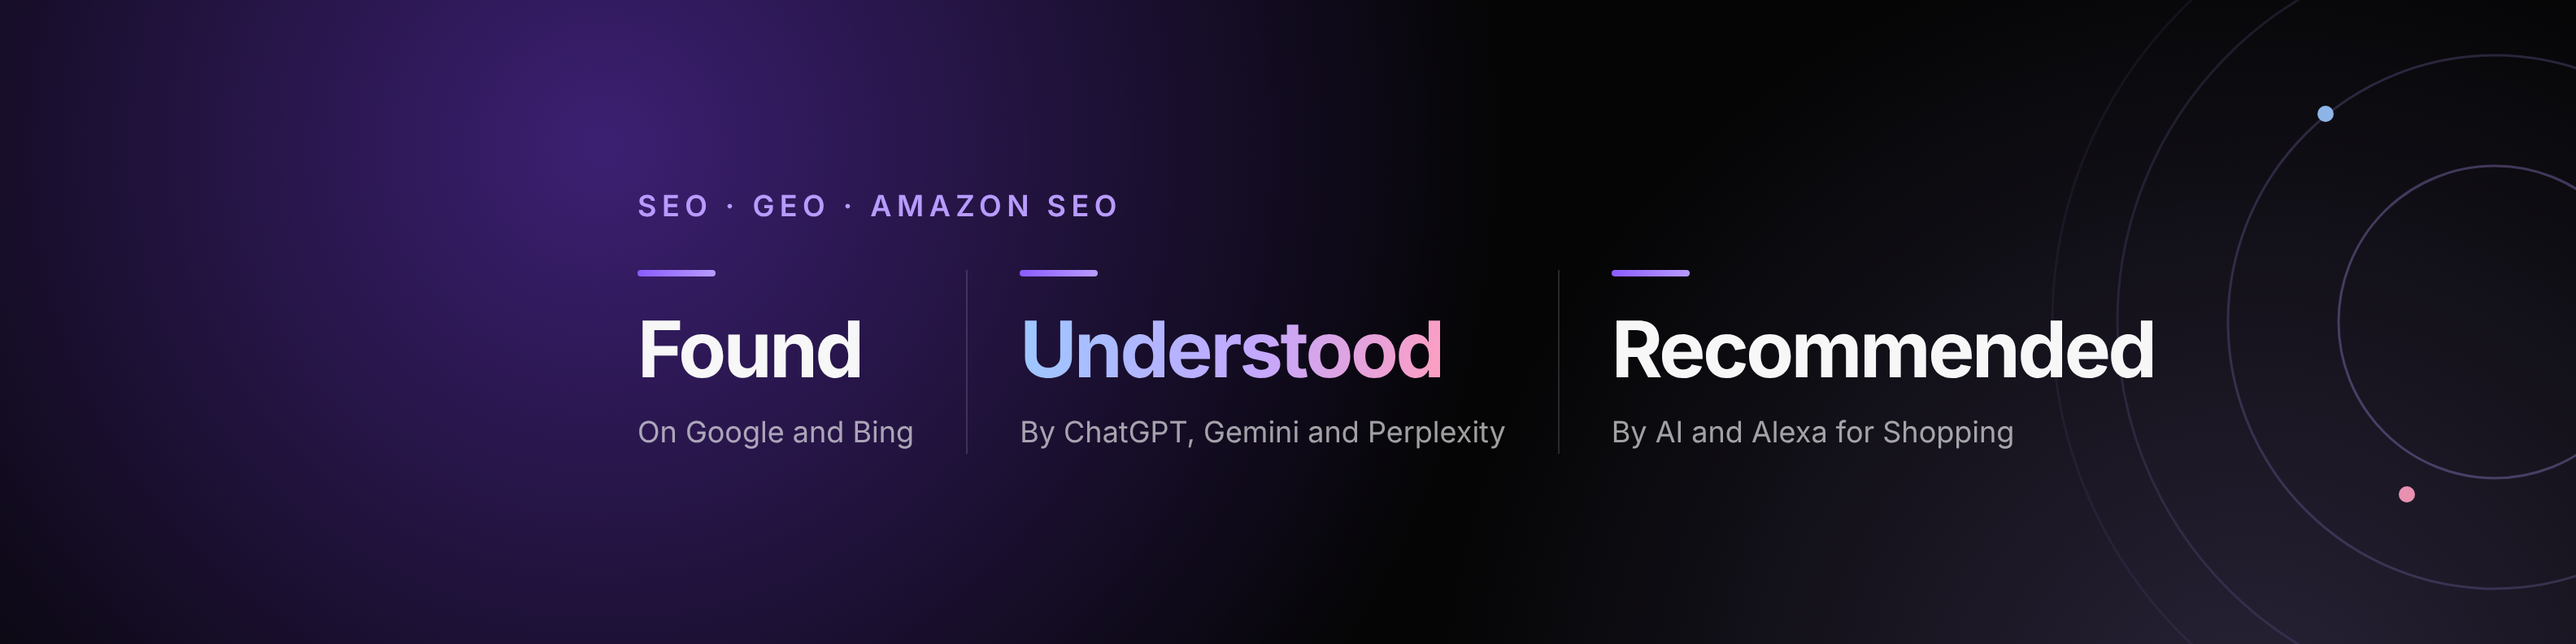
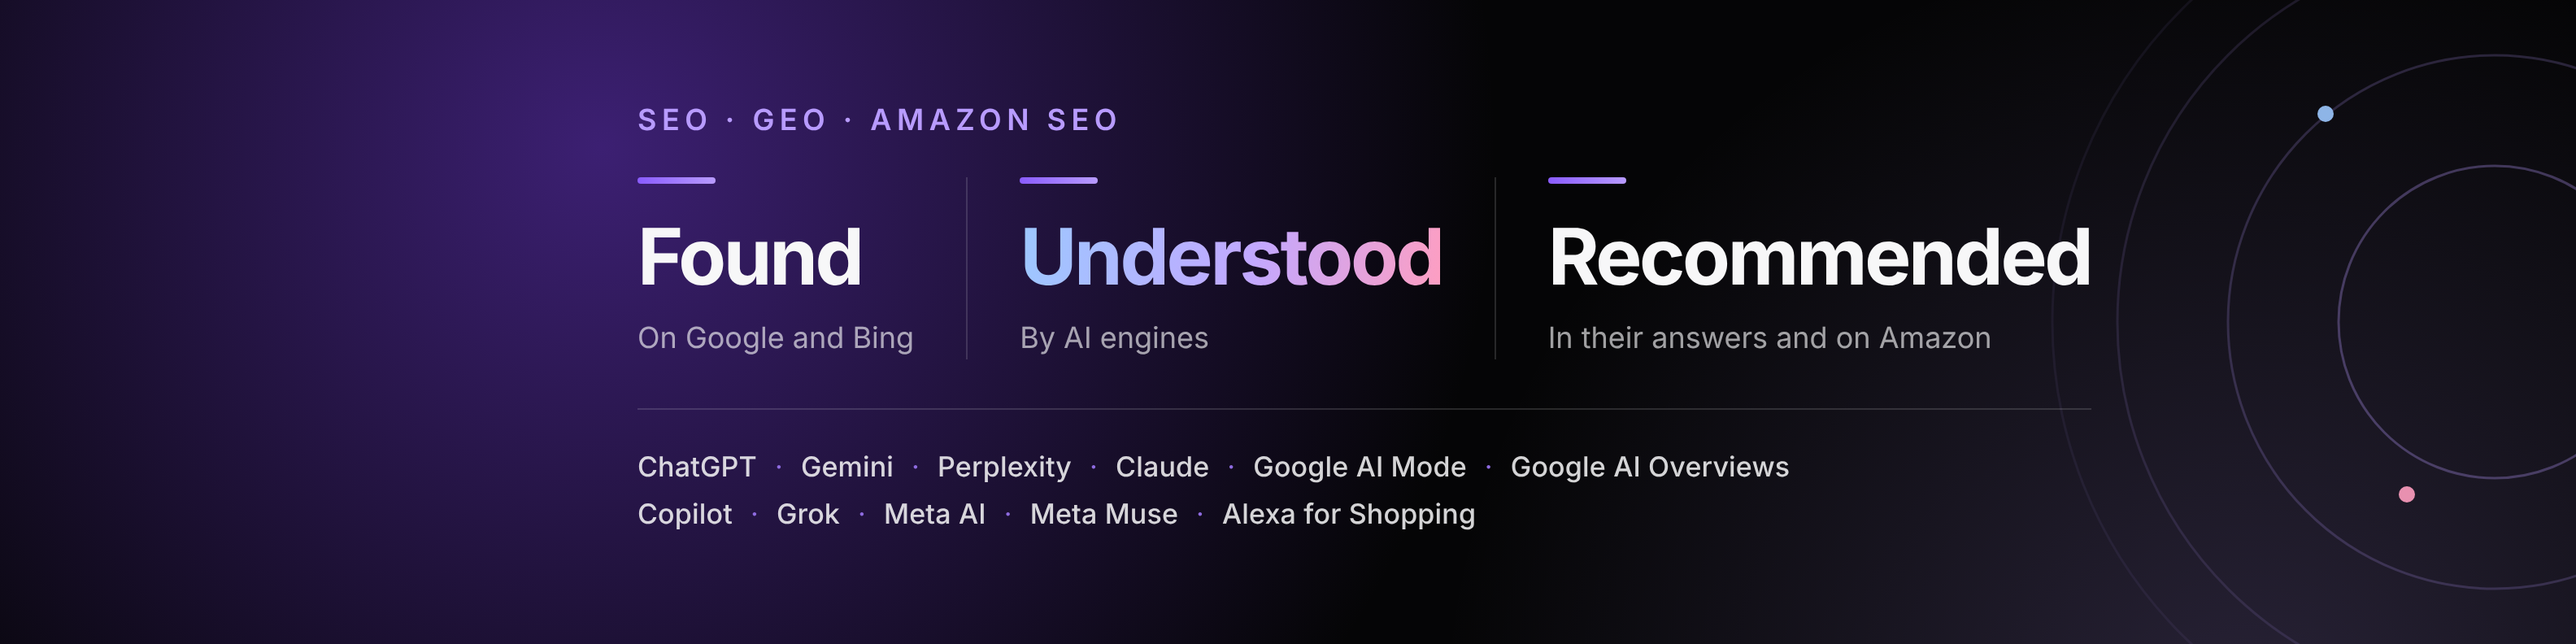
LinkedIn cover v2: full list of engines under the three beats
Claude-Session: https://claude.ai/code/session_011B6n1KvdKxxhX2vFogUzTv

diff --git a/linkedin/PERFIL.md b/linkedin/PERFIL.md
@@ -30,3 +30,4 @@ Versión en inglés: ver `docs/LINKEDIN-PROFILE.md` en el repo GEONOS (PR #292 a
 
 ### Portada, versión 2 (2026-10-27)
 Rehecha con el estilo de diseño premium (fondo negro de la marca, violeta y lila, Inter, ritmo de 8 puntos): tres ideas de tu texto "Acerca de" (encontrado, entendido, recomendado), con SEO, GEO y Amazon SEO arriba. Sin nombre de producto ni logo. Archivos en `linkedin/portada/`: `portada-linkedin-v2-es-1584x396.png` (principal), `portada-linkedin-v2-en-1584x396.png` (por si usas el perfil en inglés), las dos al doble (3168 x 792), `vista-previa-computadora-v2.png` (el círculo gris simula tu foto) y el script `banner2.cjs`. La versión 1 se conserva. Probar en computadora y en celular antes de dejarla.
+Actualización de la portada v2 (2026-10-27): se agregó debajo de las tres ideas la lista completa de motores (ChatGPT, Gemini, Perplexity, Claude, Google AI Mode, Google AI Overviews, Copilot, Grok, Meta AI, Meta Muse y Alexa for Shopping). Sin conteo de motores en el texto, como en el resto del sitio.
